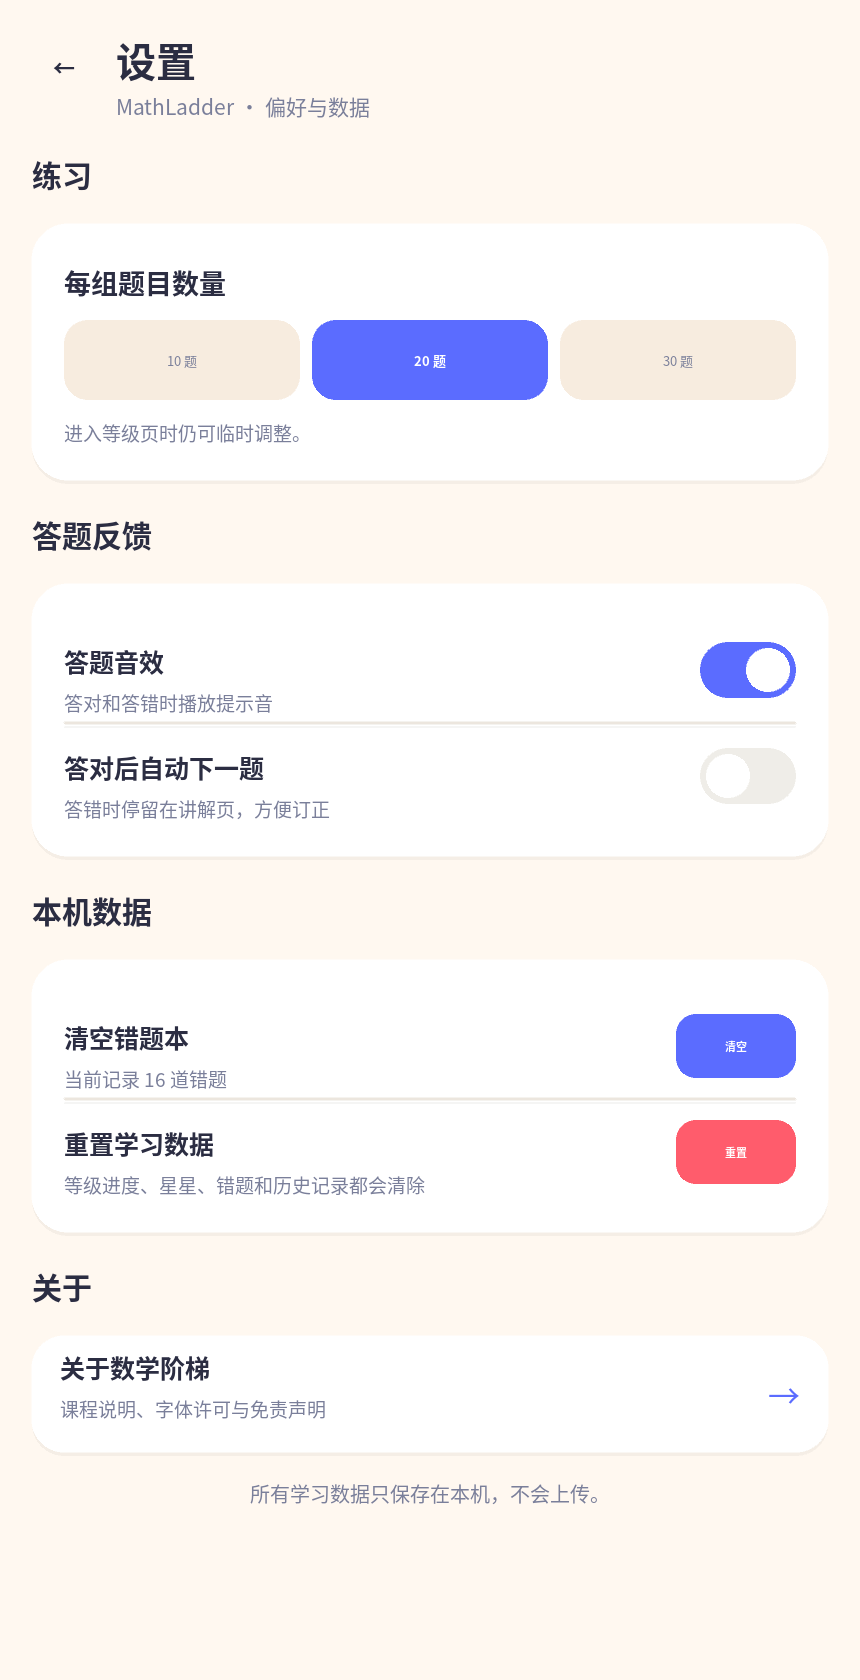
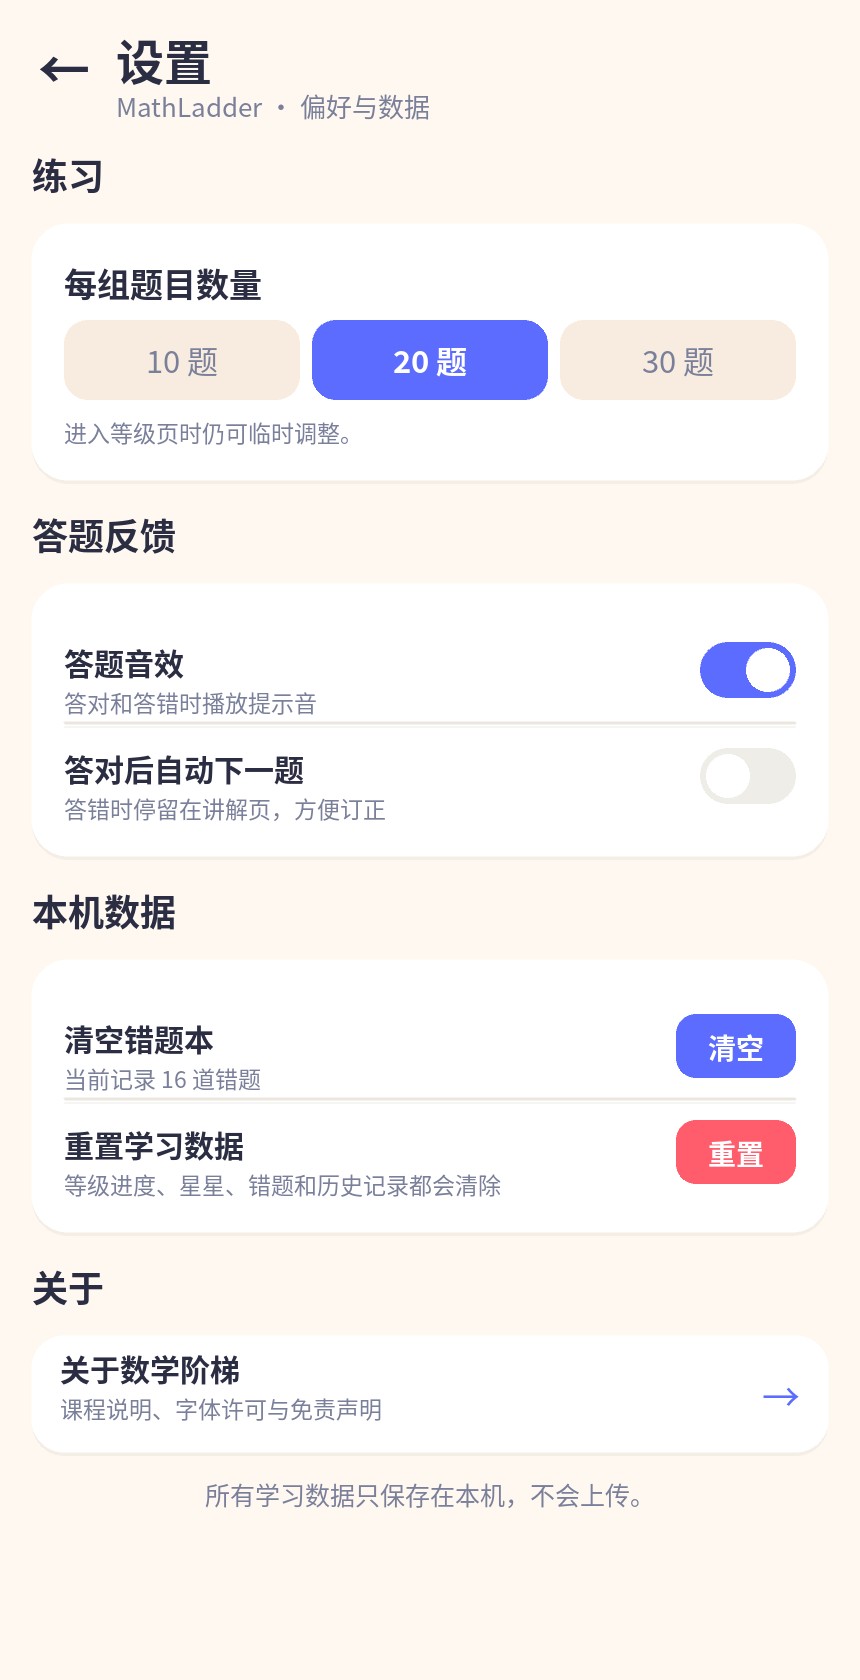
feat(ui): enlarge fonts for phone readability
The UI was designed with desktop-sized type; on phones the small
labels and keypad text were hard to read. Scale every designed font
size by 1.15 + 1sp inside Lbl and PillButton, which stacks on top of
the system font scale. Give the name to the version (1.0.2 /
versionCode 3), fix the mistake-book row wrap caused by the larger
type, and refresh screenshots.

diff --git a/app/ui/screens/level.py b/app/ui/screens/level.py
@@ -145,14 +145,14 @@ class LevelScreen(BaseScreen):
                 spacing=dp(6),
                 radius=18,
                 size_hint_y=None,
-                height=dp(86),
+                height=dp(96),
             )
-            row = BoxLayout(size_hint_y=None, height=dp(30), spacing=dp(8))
+            row = BoxLayout(size_hint_y=None, height=dp(34), spacing=dp(8))
             row.add_widget(
                 Lbl(f"本阶段错题本 · {len(mistake_records)} 道", font_size=13.5, bold=True,
-                    color=RED, size_hint_y=None, height=dp(30))
+                    color=RED, size_hint_y=None, height=dp(34),
+                    shorten=True, shorten_from="right")
             )
-            row.add_widget(BoxLayout())
             redo = PillButton(
                 text="重练错题",
                 font_size=12,
@@ -160,7 +160,7 @@ class LevelScreen(BaseScreen):
                 bg_color=list(RED),
                 text_color=list(WHITE),
                 size_hint=(None, None),
-                size=(dp(88), dp(32)),
+                size=(dp(90), dp(36)),
                 radius=11,
             )
             redo.bind(on_release=lambda *_: self._start_mistakes(mistake_records))
@@ -168,7 +168,7 @@ class LevelScreen(BaseScreen):
             mistake_card.add_widget(row)
             mistake_card.add_widget(
                 Lbl("答对后会从错题本中移除。", font_size=10, color=MUTED,
-                    size_hint_y=None, height=dp(18))
+                    size_hint_y=None, height=dp(19))
             )
             box.add_widget(mistake_card)
 

diff --git a/app/ui/widgets/common.py b/app/ui/widgets/common.py
@@ -33,6 +33,7 @@ from app.theme import (
     TRACK,
     WHITE,
     YELLOW,
+    readable_font_size,
 )
 
 
@@ -60,7 +61,7 @@ class Lbl(Label):
         kwargs.setdefault("valign", "middle")
         super().__init__(
             text=text,
-            font_size=sp(font_size),
+            font_size=sp(readable_font_size(font_size)),
             color=color if color is not None else INK,
             bold=bold,
             halign=halign,
@@ -196,7 +197,10 @@ class PillButton(Button):
         kwargs.setdefault("background_down", "")
         kwargs.setdefault("background_color", (0, 0, 0, 0))
         kwargs.setdefault("font_name", FONT_NAME)
-        kwargs.setdefault("font_size", sp(15))
+        font_size = kwargs.get("font_size", 15)
+        if isinstance(font_size, (int, float)):
+            font_size = sp(readable_font_size(font_size))
+        kwargs["font_size"] = font_size
         kwargs.setdefault("halign", "center")
         kwargs.setdefault("valign", "middle")
         kwargs.setdefault("disabled_color", [*MUTED_LIGHT[:3], 0.7])

diff --git a/app/theme.py b/app/theme.py
@@ -66,3 +66,15 @@ LEVEL_TINTS = {
 FONT_SIZE_TITLE = 22
 SCREEN_PAD = 16
 CARD_RADIUS = 18
+
+# The UI was originally designed with desktop-sized type, which is hard to read
+# on phones where Kivy's density is close to 1. Scale every designed font size
+# up a little, giving the smallest labels the biggest relative boost. This is
+# applied on top of Kivy's own system font-scale, not instead of it.
+FONT_SCALE = 1.15
+FONT_BOOST = 1.0
+
+
+def readable_font_size(size: float) -> float:
+    """Return a phone-friendly size for a designed font size."""
+    return size * FONT_SCALE + FONT_BOOST

diff --git a/app/ui/screens/home.py b/app/ui/screens/home.py
@@ -214,7 +214,7 @@ class HomeScreen(BaseScreen):
                 color=MUTED,
                 halign="right",
                 size_hint=(None, None),
-                size=(dp(42), dp(15)),
+                size=(dp(48), dp(15)),
             )
         )
         card.add_widget(bottom)

diff --git a/app/app.py b/app/app.py
@@ -26,7 +26,7 @@ from app.ui.screens.stats import StatsScreen
 
 class MathLadderApp(App):
     name = "MathLadder"
-    VERSION = "1.0.1"
+    VERSION = "1.0.2"
 
     def build(self):
         self.title = "数学阶梯 · MathLadder"

diff --git a/README.md b/README.md
@@ -143,7 +143,7 @@ python tools/check_apk_alignment.py bin/*.apk   # 校验 16 KB 内存页支持
 │   │   ├── screens/            # 首页、阶段、做题、结果、统计、设置、关于
 │   │   └── widgets/common.py   # 自绘卡片、按钮、图表、开关等
 │   └── assets/                 # 内置中文字体、图标、音效
-├── tests/                      # 131 个引擎 / 存储测试
+├── tests/                      # 136 个引擎 / 存储测试
 ├── tools/
 │   ├── make_screenshots.py     # 自动生成文档截图
 │   ├── extract_pdf.py          # 仅本地使用的 PDF 页面提取工具
